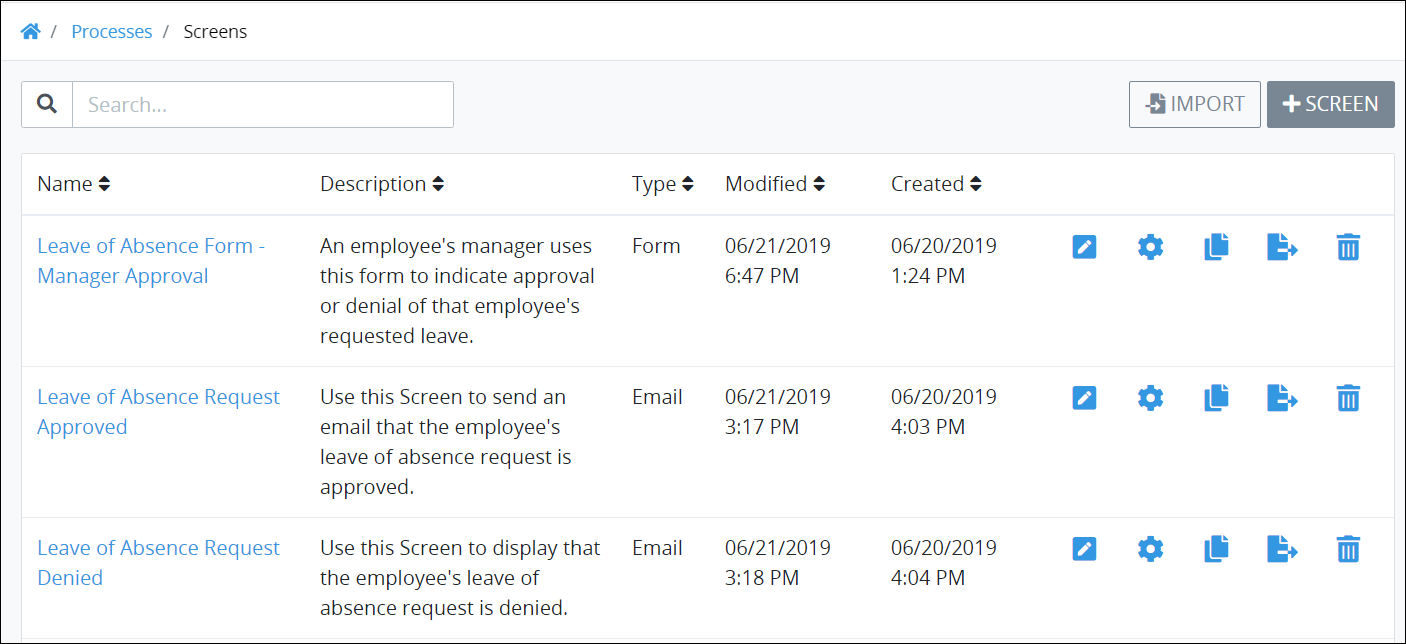
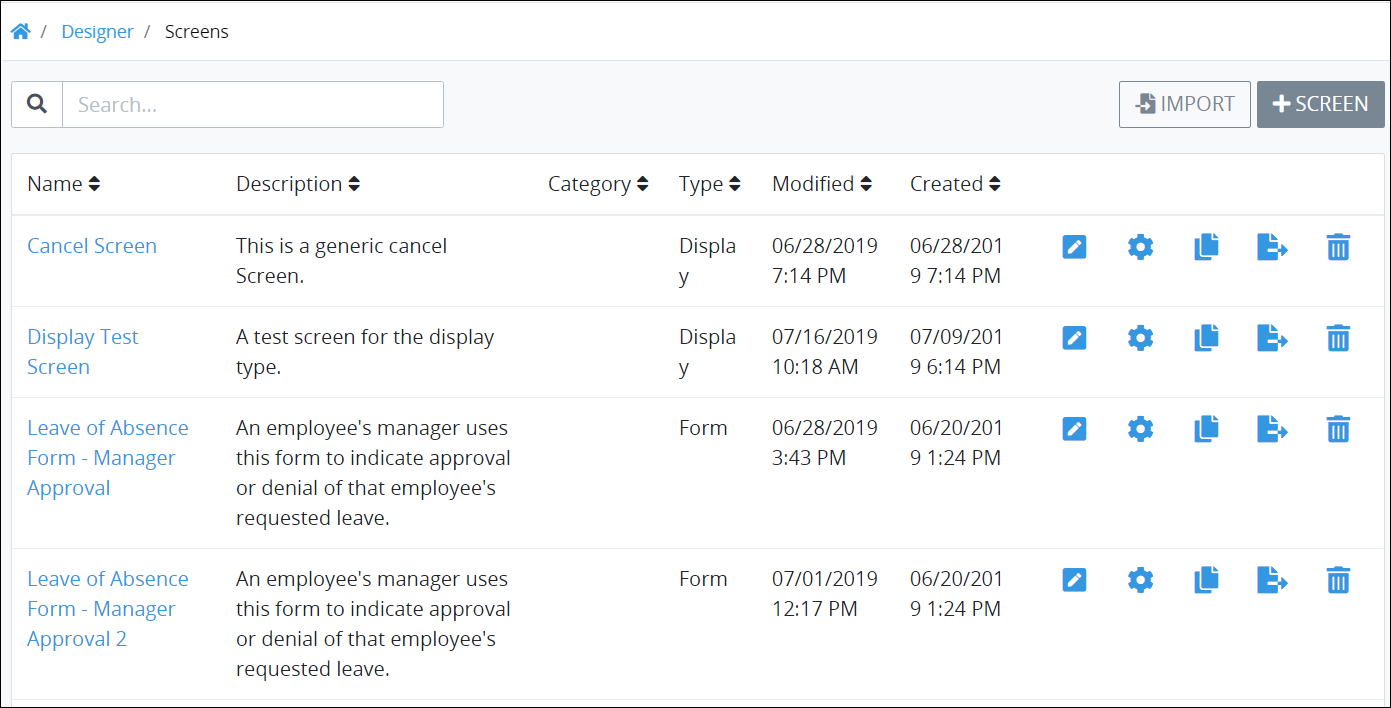
GitBook: [processmaker] 6 pages and 2 assets modified

diff --git a/designing-processes/process-design/model-processes-using-connectors/available-connectors-from-processmaker/email-connector.md b/designing-processes/process-design/model-processes-using-connectors/available-connectors-from-processmaker/email-connector.md
@@ -1,12 +1,12 @@
 ---
-description: Add the Email connector to send emails during Requests for a Process.
+description: Add the Send Email connector to send emails during Requests for a Process.
 ---
 
-# Email Connector
+# Send Email Connector
 
 ## Overview
 
-The Email connector is part of the [Email package](../../../../package-development-distribution/package-a-connector/email.md) that allows ProcessMaker to send emails during [Requests](../../../../using-processmaker/requests/what-is-a-request.md) that use a Send Email control in a Process model. When you add a Send Email control to a Process model and then reference a [ProcessMaker Screen](../../../design-forms/screens-builder/types-for-screens.md#email) for email body content, the Send Email control can email a specified email address when that Send Email control triggers in a Request's workflow. The Email connector supports sending an email to only one email recipient.
+The Send Email connector is part of the [Email package](../../../../package-development-distribution/package-a-connector/email.md) that allows ProcessMaker to send emails during [Requests](../../../../using-processmaker/requests/what-is-a-request.md) that use a Send Email control in a Process model. When you add a Send Email control to a Process model and then reference a [ProcessMaker Screen](../../../design-forms/screens-builder/types-for-screens.md#email) for email body content, the Send Email control can email a specified email address when that Send Email control triggers in a Request's workflow. The Send Email connector supports sending an email to only one email recipient.
 
 {% hint style="info" %}
 ### Don't Know What a Connector Is?
@@ -15,15 +15,15 @@ See [What is a Connector?](../what-is-a-connector.md).
 
 ### ProcessMaker Package Required
 
-The Email package is required. The Email connector is not available in the ProcessMaker open-source edition. Contact [ProcessMaker Sales](mailto:sales@processmaker.com) or ask your ProcessMaker sales representative how the Email connector can be installed in your ProcessMaker instance.
+The Send Email package is required. The Send Email connector is not available in the ProcessMaker open-source edition. Contact [ProcessMaker Sales](mailto:sales@processmaker.com) or ask your ProcessMaker sales representative how the Send Email connector can be installed in your ProcessMaker instance.
 {% endhint %}
 
-The Email connector adds the following components to the ProcessMaker open-source edition:
+The Send Email connector adds the following components to the ProcessMaker open-source edition:
 
-* **Process Modeler:** The Email connector adds the **Send Email** control below the BPMN 2.0 elements in the panel to the left of the Process Modeler canvas. See the following sections in this topic:
+* **Process Modeler:** The Send Email connector adds the **Send Email** control below the BPMN 2.0 elements in the panel to the left of the Process Modeler canvas. See the following sections in this topic:
   * [Add a Send Email Control to the Process Model](email-connector.md#add-a-send-email-control-to-the-process-model)
   * [Configure a Send Email Control](email-connector.md#configure-a-send-email-control)
-* **Screens Builder:** The Email connector adds a new ProcessMaker Screen type called Email. Select the **Email** Screen type when [creating a new ProcessMaker Screen](../../../scripts/manage-scripts/create-a-new-script.md#create-a-new-processmaker-script). See [Email Screen type](../../../design-forms/screens-builder/types-for-screens.md#email).
+* **Screens Builder:** The Send Email connector adds a new ProcessMaker Screen type called Email. Select the **Email** Screen type when [creating a new ProcessMaker Screen](../../../scripts/manage-scripts/create-a-new-script.md#create-a-new-processmaker-script). See [Email Screen type](../../../design-forms/screens-builder/types-for-screens.md#email).
 
 ## Add a Send Email Control to the Process Model
 
@@ -57,7 +57,7 @@ Moving a Send Email control has the following limitations in regards to the foll
 ## Configure a Send Email Control
 
 {% hint style="info" %}
-Your user account or group membership must have the following permissions to configure a Send Email control to the Process model when the Email connector is installed in your ProcessMaker instance:
+Your user account or group membership must have the following permissions to configure a Send Email control to the Process model when the Send Email connector is installed in your ProcessMaker instance:
 
 * Processes: View Processes
 * Processes: Edit Processes

diff --git a/collections/manage-collections/view-collections.md b/collections/manage-collections/view-collections.md
@@ -4,3 +4,65 @@ description: View ProcessMaker Collections in your organization.
 
 # View Collections
 
+## View All Vocabularies
+
+ProcessMaker displays all ProcessMaker Vocabularies in one table. This makes it easy to manage ProcessMaker Vocabularies.
+
+{% hint style="info" %}
+### Don't Know What a Vocabulary Is?
+
+See [What is a Vocabulary?](../../designing-processes/vocabularies-management/what-is-a-vocabulary.md) to learn how all your ProcessMaker assets can use a uniform JSON schema.
+
+### ProcessMaker Package Required
+
+The [Vocabularies package](../../package-development-distribution/package-a-connector/vocabularies.md) must be installed in your ProcessMaker instance. The Vocabularies package is not available in the ProcessMaker open-source edition. Contact [ProcessMaker Sales](mailto:sales@processmaker.com) or ask your ProcessMaker sales representative how the Vocabularies package can be installed in your ProcessMaker instance.
+
+### Permission Required
+
+Your user account or group membership must have the "Vocabularies: View Vocabularies" permission to view the list of Vocabularies.
+
+See the ProcessMaker [Vocabularies](../../processmaker-administration/permission-descriptions-for-users-and-groups.md#vocabularies) permissions or ask your ProcessMaker Administrator for assistance.
+{% endhint %}
+
+Follow these steps to view all ProcessMaker Vocabularies in your organization:
+
+1. Ensure that you are [logged on](../../using-processmaker/log-in.md#log-in) to ProcessMaker.
+2. Click the **Processes** option from the top menu. The **Processes** page displays all active Processes.
+3. Click the **Vocabularies** icon![](../../.gitbook/assets/vocabularies-icon-processes.png). The **Vocabularies** page displays all ProcessMaker Vocabularies.
+
+![&quot;Vocabularies&quot; page displays all ProcessMaker Vocabularies in your organization](../../.gitbook/assets/vocabularies-page-processes.png)
+
+The **Vocabularies** page displays the following information in tabular format about ProcessMaker Vocabularies:
+
+* **ID:** The **ID** column displays the ProcessMaker Vocabulary's ID. ProcessMaker automatically generates the ID value when the Vocabulary is created and represents a sequential number of how many total Vocabularies have been created to that time.
+* **Title:** The **Title** column displays the ProcessMaker Vocabulary's name.
+* **Description:** The **Description** column displays the ProcessMaker Vocabulary's description.
+* **Modified:** The **Modified** column displays the date and time the ProcessMaker Vocabulary was last modified. The time zone setting to display the time is according to the ProcessMaker instance unless your [user profile's](../../using-processmaker/profile-settings.md#change-your-profile-settings) **Time zone** setting is specified.
+* **Created:** The **Created** column displays the date and time the ProcessMaker Vocabulary was created. The time zone setting to display the time is according to the ProcessMaker instance unless your [user profile's](../../using-processmaker/profile-settings.md#change-your-profile-settings) **Time zone** setting is specified.
+
+{% hint style="info" %}
+### Search for a ProcessMaker Vocabulary
+
+Use the [Search](../../designing-processes/vocabularies-management/manage-your-vocabularies/search-for-a-vocabulary.md) field to filter ProcessMaker Vocabularies that display.
+
+### Create a ProcessMaker Vocabulary
+
+Click the **+Vocabulary** button. See [Create a New Vocabulary](../../designing-processes/vocabularies-management/manage-your-vocabularies/create-a-new-vocabulary.md).
+
+### Edit a ProcessMaker Vocabulary
+
+Click the **Edit** icon![](../../.gitbook/assets/edit-icon.png). See [Edit a Vocabulary](../../designing-processes/vocabularies-management/manage-your-vocabularies/edit-a-vocabulary.md).
+
+### No Processes?
+
+If no ProcessMaker Vocabularies exist, the following message displays: **No Data Available**.
+
+### Display Information the Way You Want It
+
+[Control how tabular information displays](../../using-processmaker/control-how-requests-display-in-a-tab.md), including how to sort columns or how many items display per page.
+{% endhint %}
+
+## Related Topics
+
+
+

diff --git a/designing-processes/design-forms/manage-forms/create-a-new-form.md b/designing-processes/design-forms/manage-forms/create-a-new-form.md
@@ -27,12 +27,13 @@ Follow these steps to create a new ProcessMaker Screen:
 
    * **Form:** Use the Form type to design interactive and complex forms. See [Form](../screens-builder/types-for-screens.md#form).
    * **Display:** Use the Display type to display information or allow [Request](../../../using-processmaker/requests/what-is-a-request.md) participants to download files. The Display type has limited functionality compared the Form type. See [Display](../screens-builder/types-for-screens.md#display).
-   * **Email:** Use the Email type to compose the email body for email messages to be used with the Email connector. Note that the Email connector must be installed in your ProcessMaker instance for this option to display. See [Email Connector](../../process-design/model-processes-using-connectors/available-connectors-from-processmaker/email-connector.md) and [Screen Types](../screens-builder/types-for-screens.md#email).
+   * **Email:** Use the Email type to compose the email body for email messages to be used with the Send Email connector. Note that the Send Email connector must be installed in your ProcessMaker instance for this option to display. See [Send Email Connector](../../process-design/model-processes-using-connectors/available-connectors-from-processmaker/email-connector.md) and [Screen Types](../screens-builder/types-for-screens.md#email).
 
    This is a required field.
 
 5. Enter in the **Description** field a description for the ProcessMaker Screen. This is a required field.
-6. Click **Save**. Screens Builder displays the new ProcessMaker Screen in [Design mode](../screens-builder/screens-builder-modes.md#editor-mode). See [Screens Builder](../screens-builder/).
+6. In the **Category** field, enter the name for the category to associate with the ProcessMaker Screen. In doing so, maintain consistent naming with similarly functional ProcessMaker Screens so that they may be more easily sorted from the [**Screens** page](view-all-forms.md#view-all-scripts). This is a required field.
+7. Click **Save**. Screens Builder displays the new ProcessMaker Screen in [Design mode](../screens-builder/screens-builder-modes.md#editor-mode). See [Screens Builder](../screens-builder/).
 
 ## Related Topics
 

diff --git a/designing-processes/design-forms/manage-forms/view-all-forms.md b/designing-processes/design-forms/manage-forms/view-all-forms.md
@@ -26,6 +26,7 @@ The **Screens** page displays the following information in tabular format about 
 
 * **Name:** The **Name** column displays the name of the ProcessMaker Screen. Click the name to edit the ProcessMaker Screen in [Screens Builder](../screens-builder/).
 * **Description:** The **Description** column displays the description of the ProcessMaker Screen. See [Edit Script Configuration](../../scripts/manage-scripts/edit-script-configuration.md#edit-configuration-information-about-a-processmaker-script) for more information.
+* **Category:** The **Category** column displays to which Screen Category the ProcessMaker Screen is assigned.
 * **Type:** The **Type** column displays which type the ProcessMaker Screen is. See [Screen Types](../screens-builder/types-for-screens.md).
 * **Modified:** The **Modified** column displays the date and time the ProcessMaker Screen was last modified. The time zone setting to display the time is according to the ProcessMaker instance unless your [user profile's](../../../using-processmaker/profile-settings.md#change-your-profile-settings) **Time zone** setting is specified.
 * **Created:** The **Created** column displays the date and time the ProcessMaker Screen was created. The time zone setting to display the time is according to the ProcessMaker instance unless your [user profile's](../../../using-processmaker/profile-settings.md#change-your-profile-settings) **Time zone** setting is specified.

diff --git a/designing-processes/scripts/manage-scripts/create-a-new-script.md b/designing-processes/scripts/manage-scripts/create-a-new-script.md
@@ -26,7 +26,7 @@ Follow these steps to create a new ProcessMaker Script:
 
 3. In the **Name** field, enter the name of the ProcessMaker Script. This is a required field.
 4. In the **Description** field, enter the description of the ProcessMaker Script. This is a required field.
-5. In the **Category** field, enter the name for the category to associate with the ProcessMaker Script. In doing so, maintain consistent naming with similarly functional ProcessMaker Screens so that they may be more easily sorted from the [**Scripts** page](view-all-scripts.md#view-all-processmaker-scripts). This is a required field.
+5. In the **Category** field, enter the name for the category to associate with the ProcessMaker Script. In doing so, maintain consistent naming with similarly functional ProcessMaker Scripts so that they may be more easily sorted from the [**Scripts** page](view-all-scripts.md#view-all-processmaker-scripts). This is a required field.
 6. From the **Language** drop-down menu, select one of the following programming languages in which the ProcessMaker Script is written:
 
    * PHP

diff --git a/SUMMARY.md b/SUMMARY.md
@@ -163,7 +163,7 @@
   * [Add Connectors to Your Process Model](designing-processes/process-design/model-processes-using-connectors/README.md)
     * [What is a Connector?](designing-processes/process-design/model-processes-using-connectors/what-is-a-connector.md)
     * [Available Connectors from ProcessMaker](designing-processes/process-design/model-processes-using-connectors/available-connectors-from-processmaker/README.md)
-      * [Email Connector](designing-processes/process-design/model-processes-using-connectors/available-connectors-from-processmaker/email-connector.md)
+      * [Send Email Connector](designing-processes/process-design/model-processes-using-connectors/available-connectors-from-processmaker/email-connector.md)
   * [Delete Process Model Elements or Controls](designing-processes/process-design/remove-process-model-elements.md)
   * [Undo and Redo Changes in the Process Model](designing-processes/process-design/undo-and-redo-changes.md)
   * [Navigate Around Your Process Model](designing-processes/process-design/navigate-around-your-process-model.md)
